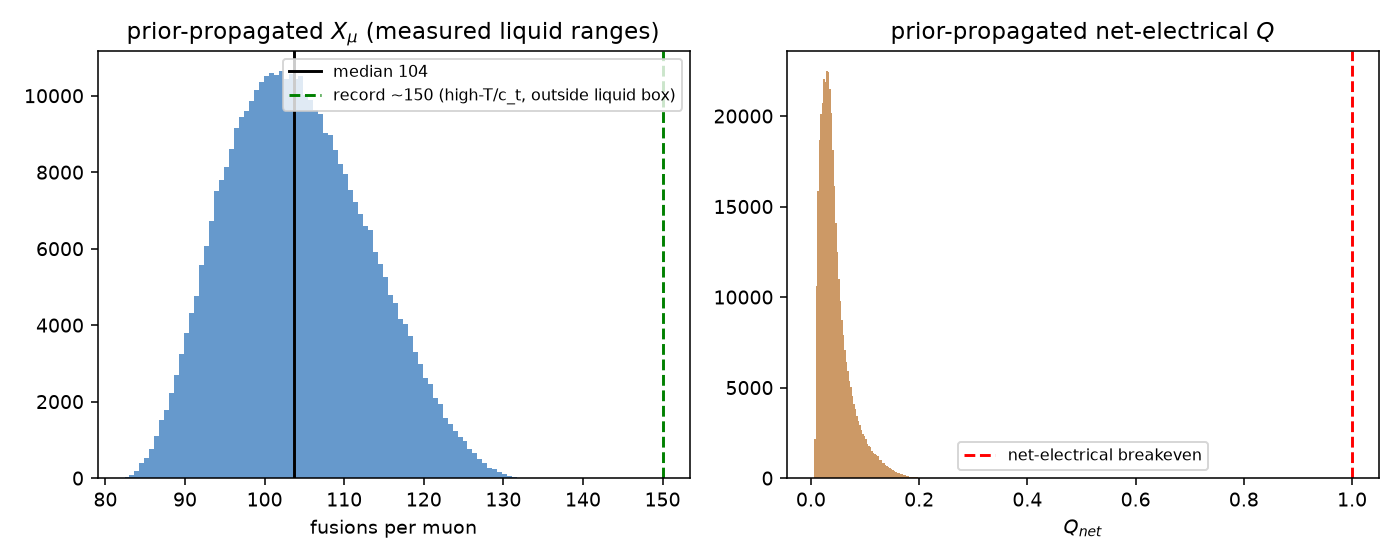
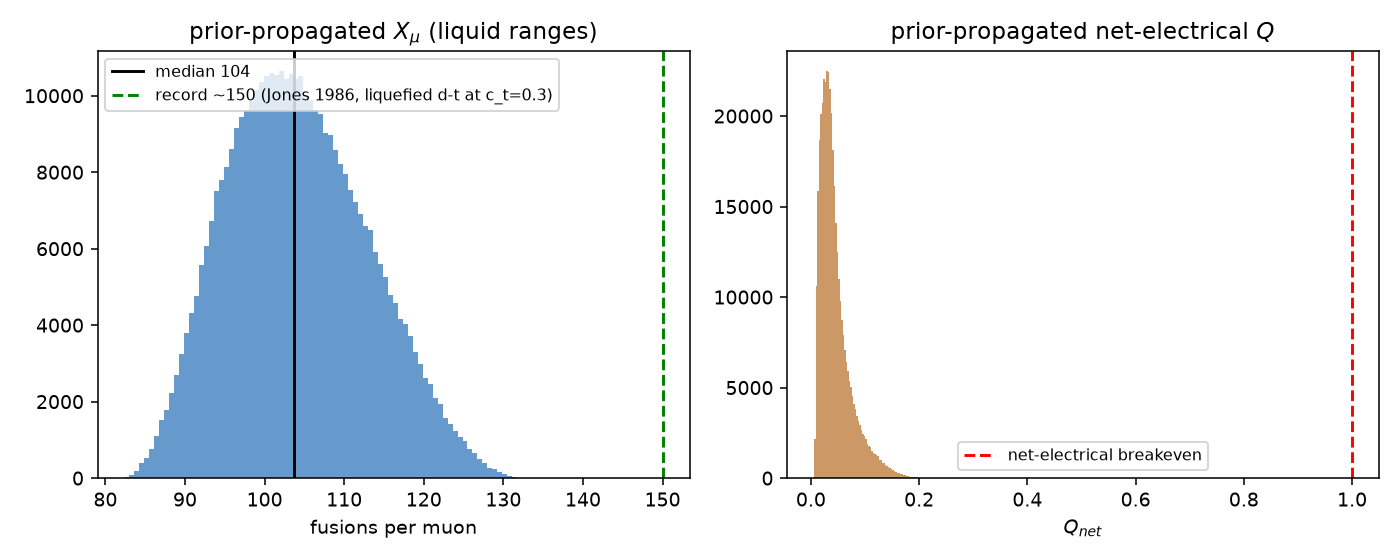
Retract "measured" from the prior ranges it is false of, and tie the row's value to its conditions
Only one of the six propagated priors is measured. `openmucf/data/uq_priors.csv` records `lambda_c` as
the measured liquid-condition cycling band; `omega_s0_pct` as a contested-range box; `R` as a box
widened around a model value; `E_mu_GeV` as a design-study floor range; and `eta_acc` / `eta_thermal`
as systems assumptions with no ledger row at all. The word was applied to the whole set in the
places repaired here; further homes in the test suite and the changelog are recorded rather than
touched.

- **The figure said what the prose had already retracted.** `figures/forward_uq.png` labelled the
  record "high-T/c_t, outside liquid box". Jones 1986 p.591 states it was detected "in a liquefied d-t
  target with C_t = 0.3", and the paragraph that figure illustrates says the record lies above the box
  because of sticking, not conditions. The legend now carries the primary's own conditions. Nothing on
  the text side could see this: the claim guard reads prose lines and the audit's byte diff does not
  cover `figures/`.
- **Section 2's method line, section 3's bullet header, section 1b's two range descriptions and the
  figure title** each described the propagated ranges as measured. Deleted.
- **`uq.py`'s module docstring claimed every input's range comes from a contested ledger row.** Four
  do, and all four of those rows carry `status = contested`; the two efficiency inputs have no ledger
[…]

Changed region(s): [[0.0614, 0.0304, 0.4914, 0.2125]]

diff --git a/scripts/generate_findings.py b/scripts/generate_findings.py
@@ -74,9 +74,10 @@ assert (_PSI.normalized_GeV_per_mu, _PSI.stage, _PSI.charge_basis) == (
     "mu_plus_only",
 ), "psi_himb moved: the AMENDMENT quotes its 2026-08-19 coordinates; re-word it, do not regenerate"
 
-# Section 2 says the Jones record and the Kou-Chen best case both need an effective sticking BELOW
-# this box's support, and that neither exits on conditions. Both halves are read from the data and
-# pinned here: if a prior moves, regeneration fails loudly rather than shipping a stale reason.
+# Section 2 says the Jones record and the Kou-Chen best case both lie ABOVE this box, and that each
+# needs an effective sticking BELOW its support. Both claims are read from the data and pinned here:
+# if a prior or the row moves, regeneration fails loudly rather than shipping a stale reason. The
+# pinned sentence rests on sticking alone; the LIQUID-conditions premise above it is NOT pinned.
 # Re-word the paragraph; do not regenerate past this.
 _OS0_P = next(p for p in uq.PARAMS if p.name == "omega_s0_pct")
 _R_P = next(p for p in uq.PARAMS if p.name == "R")
@@ -91,12 +92,20 @@ assert _JONES_NEEDS_OSE < _OSE_SUPPORT_LO and _KOU_OSE < _OSE_SUPPORT_LO, (
     "sticking below this box's support; that is no longer true -- re-word the paragraph"
 )
 # ... and its conclusion, which the premise above does not by itself pin: both figures must
-# still lie ABOVE the box. This reads the row's stated value, not just its conditions, so the two
-# cannot drift apart silently.
+# still lie ABOVE the box. This reads the row's stated value as well as its conditions, and the
+# assert below ties those two to each other, so they cannot drift apart silently.
 _BOX_MAX_XMU = 1.0 / (_OSE_SUPPORT_LO + LAMBDA_0 / _LC_P.high)
 assert _BOX_MAX_XMU < 150.0 and float(_KOU_BEST["value"]) > _BOX_MAX_XMU, (
     "the section-2 sentence says both figures lie ABOVE this box's attainable maximum; that is "
     "no longer true -- re-word the paragraph"
+)
+# The row's value and its own stated conditions must stay mutually reachable: X_mu = 1/(ose +
+# lambda_0/lambda_c) is bounded above by 1/ose for ANY lambda_c, so a value >= 1/omega_s_eff is
+# unreachable at the conditions the same row states. Without this the two can be moved apart to a
+# physically impossible pair with both asserts above still silent.
+assert 1.0 / float(_KOU_BEST["value"]) - _KOU_OSE > 0.0, (
+    "V_kouchen_best's stated value is unreachable at its own stated omega_s_eff -- the row is "
+    "internally inconsistent; fix the row, do not regenerate past this"
 )
 
 
@@ -263,8 +272,8 @@ plt.close(fig)
 fig, axes = plt.subplots(1, 2, figsize=(10, 4))
 axes[0].hist(fw["samples"]["X_mu"], bins=80, color="#6699cc")
 axes[0].axvline(fw["X_mu"]["med"], color="k", label=f"median {fw['X_mu']['med']:.0f}")
-axes[0].axvline(150, color="green", ls="--", label="record ~150 (high-T/c_t, outside liquid box)")
-axes[0].set_title("prior-propagated $X_\\mu$ (measured liquid ranges)")
+axes[0].axvline(150, color="green", ls="--", label="record ~150 (Jones 1986, liquefied d-t at c_t=0.3)")
+axes[0].set_title("prior-propagated $X_\\mu$ (liquid ranges)")
 axes[0].set_xlabel("fusions per muon")
 axes[0].legend(fontsize=8)
 axes[1].hist(fw["samples"]["Q_net"], bins=80, color="#cc9966")
@@ -361,10 +370,10 @@ lever for yield, but "cheaper muons + higher efficiency" is the lever for energy
 reprioritization is not visible in any single-point projection.
 
 ## 1b. Is that ranking a physics fact, or a prior-width artifact?
-The variance split in section 1 uses the **contested-range** box, where `R`'s measured range is relatively
+The variance split in section 1 uses the **contested-range** box, where `R`'s range is relatively
 wide (~+/-36% of nominal) while `omega_s0`'s is narrow (~+/-9%). Re-running Sobol under an **equal-relative**
 box (each input +/-{int(rob["rel"] * 100)}% of its nominal) reorders the drivers -- **`{_rank(rob["equal_relative_box"])[0][0]}` now leads** --
-so part of the contested-box ranking reflects how wide each *measured range* is, not physics alone:
+so part of the contested-box ranking reflects how wide each *range* is, not physics alone:
 
 {_tbl2(rob["contested_box"], rob["equal_relative_box"], rob["rel"])}
 
@@ -389,7 +398,7 @@ occurred in the anchor experiments (one channel, one accounting home), so eta is
 the CI, never convolved into it.
 
 ## 2. Propagated uncertainty (what we can actually say today)
-Monte-Carlo propagation of the measured liquid-density ranges (95% intervals; prior propagation, not a
+Monte-Carlo propagation of the liquid-density ranges (95% intervals; prior propagation, not a
 posterior). The interval deliberately reflects LIQUID conditions (phi ~ 1.2, T ~ 300 K). The
 record X_mu ~ 150 (Jones 1986, a liquefied d-t target at c_t = 0.3) and the Kou-Chen best case
 both lie above it, and for the same reason: each needs an effective sticking below the
@@ -508,8 +517,7 @@ sensitivity scan only, never a cost statement.
 Replacing the flat [2, 10] default with a tiered prior is deferred to Phase-4 findings-v2.
 
 ## 3. Breakeven audit (the marquee result)
-The 2026 projections (Yin-Kou-Chen arXiv:2605.26432): $N_\\mu > 500$, $Q > 2$. Under the **measured,
-liquid-density (phi <= ~1.45), unpolarized** uncertainty ranges:
+The 2026 projections (Yin-Kou-Chen arXiv:2605.26432): $N_\\mu > 500$, $Q > 2$. Under the **liquid-density (phi <= ~1.45), unpolarized** uncertainty ranges:
 
 - **P(X_mu > 500) = {H["P_xmu_gt500"]}**, P(Q_sci > 2) = {be["P_qsci_gt2"] * 100:.1f}%,
   P(Q_net > 1) = {be["P_qnet_gt1"] * 100:.1f}%. These zeros are STRUCTURAL, not Monte-Carlo estimates:
@@ -542,7 +550,7 @@ quantity Acceleron's diamond-anvil program measures and the Phase-3 sticking sur
 (Figure `figures/breakeven.png`.)
 
 ## Honest caveats
-- These use the closed-form yield map with uniform priors over contested ranges; the
+- These use the closed-form yield map with uniform priors over the declared input ranges; the
   sticking/reactivation inputs are the v1 literature band, not yet the Phase-3 surrogate. The
   falsification result depends only on measured lambda_c and lambda_0 -- not on the v1 network
   structure -- which is the strongest defense of its robustness.

diff --git a/openmucf/uq.py b/openmucf/uq.py
@@ -12,8 +12,9 @@ Deliverables
 * ``breakeven_audit``     -- honest, uncertainty-propagated verdict on the 2026 N_mu>500 / Q>2 claims,
                              plus the "what-would-have-to-be-true" required (R, lambda_c).
 
-Priors are UNIFORM over each input's contested range (maximally honest about ignorance). Ranges are
-taken from the ledger's contested rows; every choice is documented in :data:`PARAMS`.
+Priors are UNIFORM over each input's declared range (maximally honest about ignorance). The four
+inputs that have ledger rows take their range from those rows; the two efficiency inputs are systems
+assumptions with no ledger row. Every choice is documented in :data:`PARAMS`.
 """
 
 from __future__ import annotations
@@ -172,7 +173,7 @@ def sobol_indices(N=4096, output="X_mu", seed=0, bounds=None, num_resamples=200)
 def sobol_robustness(N=8192, output="X_mu", rel=0.15, seed=0):
     """Total-order Sobol S_T for ``output`` under two prior boxes, to expose prior-WIDTH dependence:
 
-    (a) the contested-range box (``PARAMS.low/high``) -- where a relatively wide *measured* range (e.g. R
+    (a) the contested-range box (``PARAMS.low/high``) -- where a relatively wide range (e.g. R
         at +/-~36% of nominal vs omega_s0 at +/-~9%) can dominate the variance; and
     (b) an equal-relative box (each input nominal * (1 +/- ``rel``)) -- where the ranking instead follows
         the local elasticities. The ranking generally REORDERS between the two, so "R drives the variance"
@@ -220,7 +221,7 @@ def forward_uq(n=400_000, seed=0, blanket_M=1.0):
 def breakeven_audit(n=400_000, seed=1):
     """Honest, uncertainty-propagated verdict on the 2026 N_mu>500 / Q>2 projections.
 
-    Under the MEASURED uncertainty ranges, report P(X_mu>500), P(Q_sci>2), P(Q_net>1); then the
+    Under the prior uncertainty ranges, report P(X_mu>500), P(Q_sci>2), P(Q_net>1); then the
     'what-would-have-to-be-true' required (R, lambda_c) to reach X_mu=500, versus what is measured.
     """
     d = _draw(n, seed)
@@ -275,7 +276,7 @@ def breakeven_audit(n=400_000, seed=1):
         "R_X_required_given_R_col": float(R_X_req),
         "xmu_cap_at_solid_lambda_c": float(xmu_cap_solid),
         "yield_at_solid_anchor_pair": float(yield_solid_pair),
-        "measured_ranges": {p.name: [p.low, p.high] for p in PARAMS},
+        "prior_ranges": {p.name: [p.low, p.high] for p in PARAMS},
         "P_xmu_gt500": float((x > target).mean()),
         "P_qsci_gt2": float((qs > 2).mean()),
         "P_qnet_gt1": float((qn > 1).mean()),

diff --git a/FINDINGS.md b/FINDINGS.md
@@ -58,10 +58,10 @@ lever for yield, but "cheaper muons + higher efficiency" is the lever for energy
 reprioritization is not visible in any single-point projection.
 
 ## 1b. Is that ranking a physics fact, or a prior-width artifact?
-The variance split in section 1 uses the **contested-range** box, where `R`'s measured range is relatively
+The variance split in section 1 uses the **contested-range** box, where `R`'s range is relatively
 wide (~+/-36% of nominal) while `omega_s0`'s is narrow (~+/-9%). Re-running Sobol under an **equal-relative**
 box (each input +/-15% of its nominal) reorders the drivers -- **`omega_s0_pct` now leads** --
-so part of the contested-box ranking reflects how wide each *measured range* is, not physics alone:
+so part of the contested-box ranking reflects how wide each *range* is, not physics alone:
 
 | input | $S_T$ (contested box) | $S_T$ (equal-relative +/-15%) |
 |---|---|---|
@@ -93,7 +93,7 @@ occurred in the anchor experiments (one channel, one accounting home), so eta is
 the CI, never convolved into it.
 
 ## 2. Propagated uncertainty (what we can actually say today)
-Monte-Carlo propagation of the measured liquid-density ranges (95% intervals; prior propagation, not a
+Monte-Carlo propagation of the liquid-density ranges (95% intervals; prior propagation, not a
 posterior). The interval deliberately reflects LIQUID conditions (phi ~ 1.2, T ~ 300 K). The
 record X_mu ~ 150 (Jones 1986, a liquefied d-t target at c_t = 0.3) and the Kou-Chen best case
 both lie above it, and for the same reason: each needs an effective sticking below the
@@ -223,8 +223,7 @@ sensitivity scan only, never a cost statement.
 Replacing the flat [2, 10] default with a tiered prior is deferred to Phase-4 findings-v2.
 
 ## 3. Breakeven audit (the marquee result)
-The 2026 projections (Yin-Kou-Chen arXiv:2605.26432): $N_\mu > 500$, $Q > 2$. Under the **measured,
-liquid-density (phi <= ~1.45), unpolarized** uncertainty ranges:
+The 2026 projections (Yin-Kou-Chen arXiv:2605.26432): $N_\mu > 500$, $Q > 2$. Under the **liquid-density (phi <= ~1.45), unpolarized** uncertainty ranges:
 
 - **P(X_mu > 500) = 0.0%**, P(Q_sci > 2) = 0.0%,
   P(Q_net > 1) = 0.0%. These zeros are STRUCTURAL, not Monte-Carlo estimates:
@@ -257,7 +256,7 @@ quantity Acceleron's diamond-anvil program measures and the Phase-3 sticking sur
 (Figure `figures/breakeven.png`.)
 
 ## Honest caveats
-- These use the closed-form yield map with uniform priors over contested ranges; the
+- These use the closed-form yield map with uniform priors over the declared input ranges; the
   sticking/reactivation inputs are the v1 literature band, not yet the Phase-3 surrogate. The
   falsification result depends only on measured lambda_c and lambda_0 -- not on the v1 network
   structure -- which is the strongest defense of its robustness.

diff --git a/README.md b/README.md
@@ -84,7 +84,7 @@ make audit         # regenerate every deterministic doc + tolerance-check the MC
 ## Headline results (see `FINDINGS.md`, `MUON_COST.md`, `CALIBRATION.md`)
 - **Sensitivity split:** yield X_μ is controlled by reactivation R (Sobol S_T=0.62), λ_c, ω_s0; net-electrical
   Q is controlled by muon cost and accelerator efficiency. Different levers for yield vs energy.
-- **Breakeven audit:** at liquid-scale density (φ ≤ ~1.45), under measured, unpolarized ranges, P(X_μ>500)=0 —
+- **Breakeven audit:** at liquid-scale density (φ ≤ ~1.45), under unpolarized ranges, P(X_μ>500)=0 —
   structural (outside the prior's support), not a Monte-Carlo estimate. Density scaling could supply the
   cycling-rate factor at DAC φ≈2.4, but even at infinite λ_c the projection needs reactivation R ≥ 0.77
   (R ≈ 0.94 at λ_c=3e8). A falsifiable, quantified bet that rides on reactivation.
@@ -114,7 +114,7 @@ Structural, one-sided: the parametric intervals above sit on the v1 reduced netw
 channels bias X_μ DOWNWARD by up to ≈15% combined (ttμ side-cycle, un-pinned pending acquisition;
 d-recapture, bracketed in `MATERIALITY.md`), so intervals are best read as upper-edge-faithful.
 
-Headline findings run on the closed form with measured-band inputs; the differentiable ODE engine is the
+Headline findings run on the closed form; the differentiable ODE engine is the
 structural workhorse for trajectories/twin/UQ cross-checks and is gated against an exact linear-algebra
 oracle (`openmucf/exact.py`; tests), but no headline number depends on its multi-pool structure.
 

diff --git a/docs/index.md b/docs/index.md
@@ -42,7 +42,7 @@ verdict everyone can share, cite, and falsify.
 OpenMuCF introduces **no new fundamental μCF physics**. The cycle is textbook and
 the reactivation transport is Stodden (1990) / Rafelski–Müller (1988/89). The
 contribution is **open, reproducible, differentiable, UQ-bearing infrastructure**
-plus honest findings that fall out of it — for example, that under the *measured*
+plus honest findings that fall out of it — for example, that under the *prior*
 uncertainty ranges the 2026 N_μ > 500 projection sits at probability zero and
 requires two microscopic quantities to move far outside anything measured. It
 **complements** GEANT4; it does not compete with it. See `CREDIBILITY_FIREWALL.md`

diff --git a/paper/paper.md b/paper/paper.md
@@ -139,7 +139,7 @@ formation geometry is an unsourced placeholder that emits a runtime warning).
 # Research use
 
 `OpenMuCF` supports three concrete uses today. First, **breakeven auditing**: at liquid-scale density
-under measured, unpolarized ranges the probability of exceeding 500 fusions per muon is structurally
+under unpolarized ranges the probability of exceeding 500 fusions per muon is structurally
 zero, and even with an unbounded cycling rate the projection requires a reactivation fraction
 $R \gtrsim 0.77$ — a falsifiable, quantified bet stated as
 requirements rather than a verdict on any group's work. Second, a **muon-cost compilation** in which

diff --git a/docs/getting-started.md b/docs/getting-started.md
@@ -86,7 +86,7 @@ This regenerates `FINDINGS.md`, whose marquee results are:
 - **Propagated uncertainty (95% CI):** X_μ = [89, 104, 122]; Q_sci =
   [0.177, 0.305, 0.839]; Q_net = [0.0107, 0.0364, 0.1246]. P(Q_sci > 1) = 0.2%,
   P(Q_net > 1) = 0.0%.
-- **Breakeven falsification:** under the measured ranges **P(X_μ > 500) = 0.0%**.
+- **Breakeven falsification:** under the prior ranges **P(X_μ > 500) = 0.0%**.
   Even at zero sticking the best measured cycling rate (λ_c = 1.45e8) caps the
   yield at **X_μ = 319**, so 500 is arithmetically impossible without also roughly
   doubling λ_c *and* pushing reactivation R from ~0.35 toward ~0.94.

diff --git a/docs/api-overview.md b/docs/api-overview.md
@@ -98,7 +98,7 @@ Keeps the scientific and net-electrical gains as separate, fully-knobbed layers.
 ## `openmucf.uq` — UQ, global sensitivity, breakeven falsification
 
 Runs on the closed-form map (validated < 1% vs the ODE); priors are uniform over
-each input's contested range, defined in `PARAMS`.
+each input's declared range, defined in `PARAMS`.
 
 - `Param` / `PARAMS` — dataclass and the list of six inputs (`omega_s0_pct`, `R`,
   `lambda_c`, `E_mu_GeV`, `eta_acc`, `eta_thermal`) with nominal/low/high ranges;
